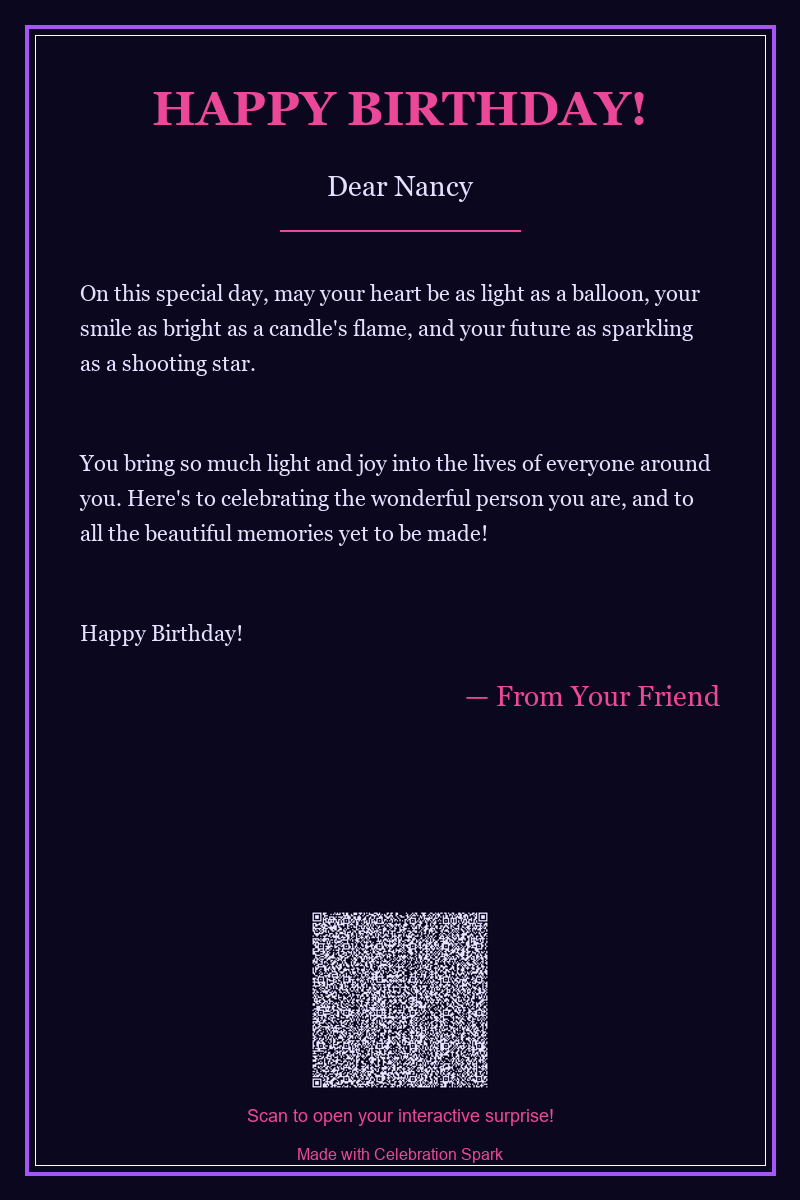
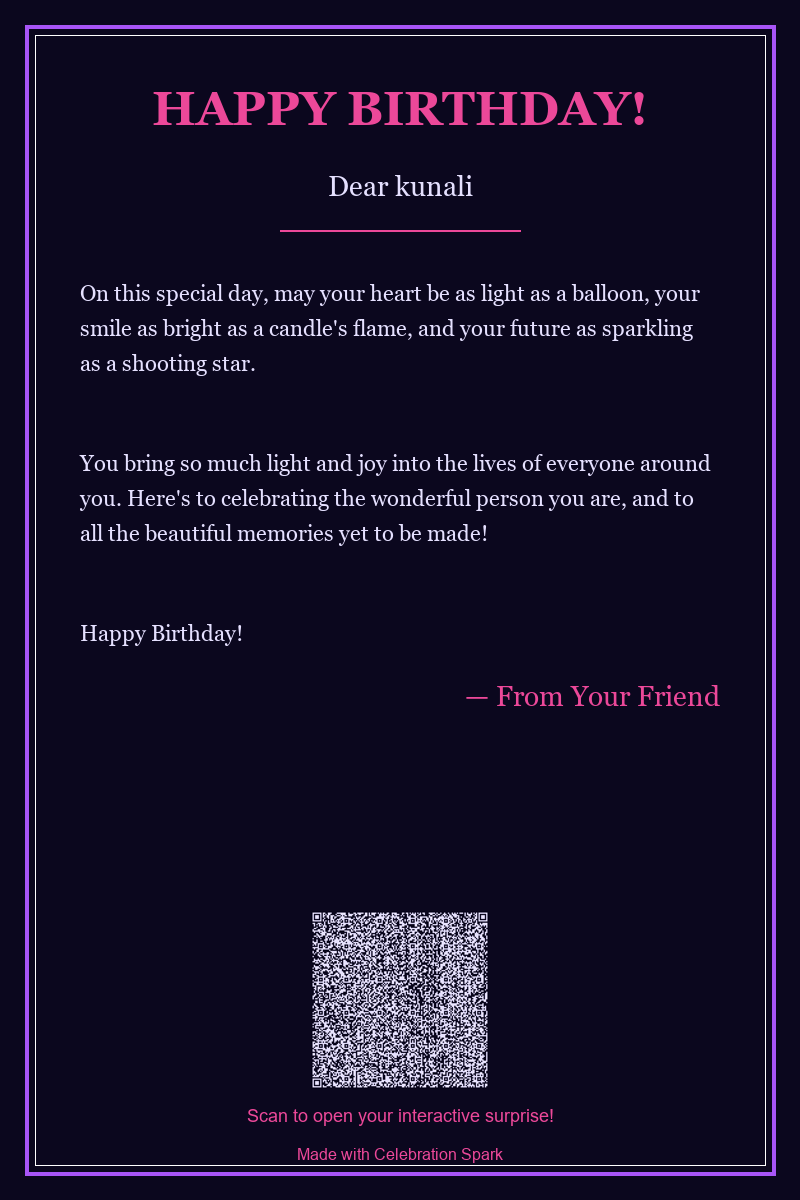
update

Changed region(s): [[0.375, 0.74, 0.625, 0.925], [0.5, 0.1233, 0.5938, 0.185], [0.4375, 0.1542, 0.4688, 0.185]]

diff --git a/standalone_wish.html b/standalone_wish.html
@@ -1494,7 +1494,7 @@ body {
       <div class="form-row">
         <div class="form-group">
           <label for="c-name">Recipient Name</label>
-          <input type="text" id="c-name" placeholder="e.g. Nancy" required maxlength="20">
+          <input type="text" id="c-name" placeholder="e.g. kunali" required maxlength="20">
         </div>
         <div class="form-group">
           <label for="c-age">Age (Optional)</label>
@@ -1562,7 +1562,7 @@ const state = {
   musicTimeout: null,
   lastTrailSpawn: 0,
   customData: {
-    name: 'Nancy',
+    name: 'kunali',
     age: '',
     sender: 'Your Friend',
     message: `On this special day, may your heart be as light as a balloon, your smile as bright as a candle's flame, and your future as sparkling as a shooting star.\n\nYou bring so much light and joy into the lives of everyone around you. Here's to celebrating the wonderful person you are, and to all the beautiful memories yet to be made!\n\nHappy Birthday!`,

diff --git a/app.js b/app.js
@@ -12,7 +12,7 @@ const state = {
   musicTimeout: null,
   lastTrailSpawn: 0,
   customData: {
-    name: 'Nancy',
+    name: 'kunali',
     age: '',
     sender: 'Your Friend',
     message: `On this special day, may your heart be as light as a balloon, your smile as bright as a candle's flame, and your future as sparkling as a shooting star.\n\nYou bring so much light and joy into the lives of everyone around you. Here's to celebrating the wonderful person you are, and to all the beautiful memories yet to be made!\n\nHappy Birthday!`,

diff --git a/index.html b/index.html
@@ -266,7 +266,7 @@
       <div class="form-row">
         <div class="form-group">
           <label for="c-name">Recipient Name</label>
-          <input type="text" id="c-name" placeholder="e.g. Nancy" required maxlength="20">
+          <input type="text" id="c-name" placeholder="e.g. kunali" required maxlength="20">
         </div>
         <div class="form-group">
           <label for="c-age">Age (Optional)</label>

diff --git a/build_wishes.py b/build_wishes.py
@@ -189,7 +189,7 @@ def generate_physical_card(name, age, sender, message, theme, wish_url):
 
 def main():
     parser = argparse.ArgumentParser(description="Magical Birthday Wish Compiler & Graphic Card Generator")
-    parser.add_argument('--name', default="Nancy", help="Recipient name")
+    parser.add_argument('--name', default="kunali", help="Recipient name")
     parser.add_argument('--age', default="", help="Recipient age (optional)")
     parser.add_argument('--sender', default="Your Friend", help="Sender name")
     parser.add_argument('--theme', default="cosmic", choices=["cosmic", "rose"], help="Theme selection")
